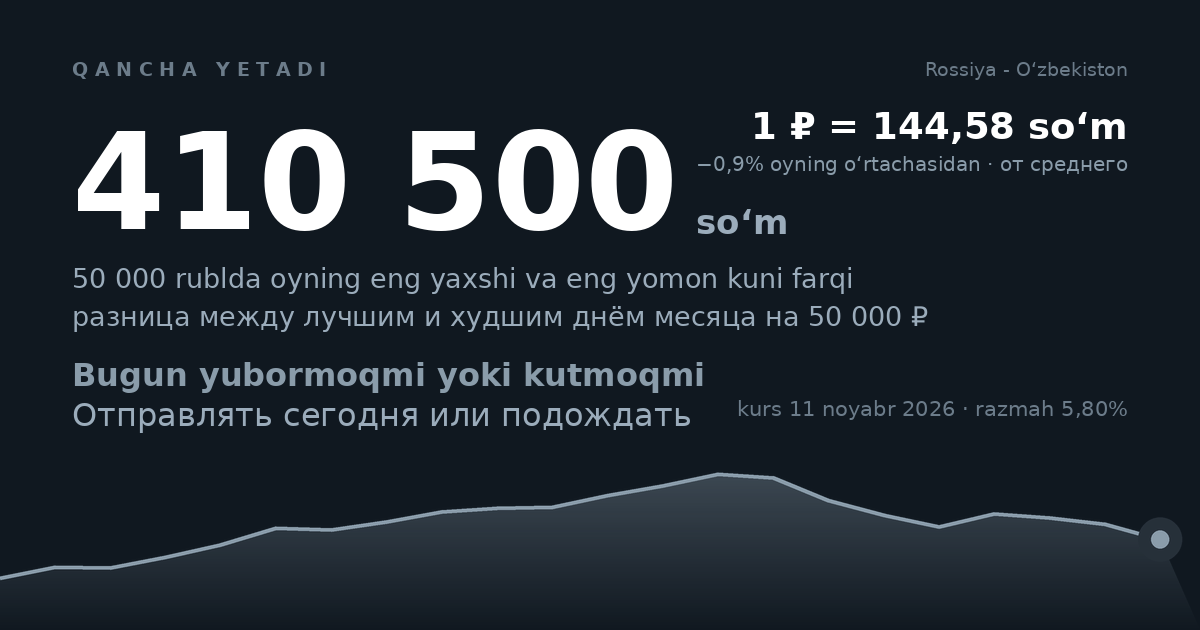
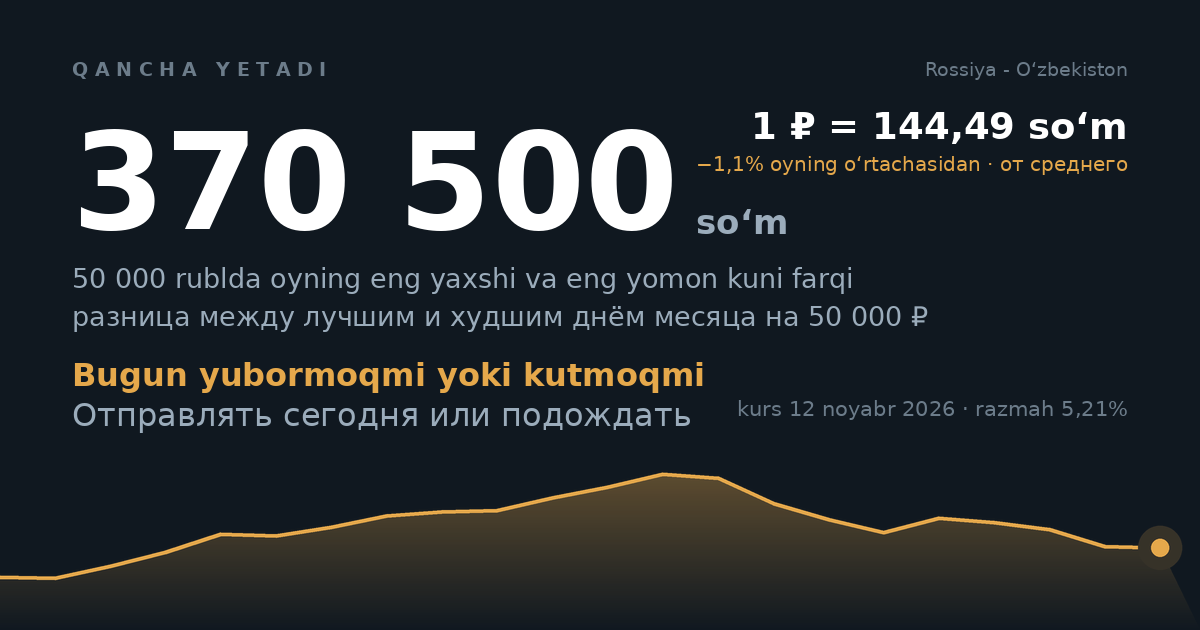
data: курс ЦБ 144.49, пересборка по расписанию [skip render]

diff --git a/kurs.html b/kurs.html
@@ -34,7 +34,7 @@
 <meta property="og:description" content="Отправлять сегодня или подождать. Курс ЦБ Узбекистана, курс переводов и разница в сумах на вашей сумме.">
 <meta property="og:type" content="website">
 <meta property="og:url" content="https://m1llerzz.github.io/KURS-/kurs.html">
-<meta property="og:image" content="https://m1llerzz.github.io/KURS-/oblozhka.png?v=20261111">
+<meta property="og:image" content="https://m1llerzz.github.io/KURS-/oblozhka.png?v=20261112">
 <meta property="og:image:width" content="1200">
 <meta property="og:image:height" content="630">
 <meta name="twitter:card" content="summary_large_image">
@@ -119,9 +119,9 @@
 </p>
 
 <div class="kurs">
-  <div class="big"><span data-zapas="kurs">144,58</span> сум за 1 ₽</div>
+  <div class="big"><span data-zapas="kurs">144,49</span> сум за 1 ₽</div>
   <div class="podpis">
-    Курс ЦБ Узбекистана на <span data-zapas="data_ru">11 ноября 2026</span>.
+    Курс ЦБ Узбекистана на <span data-zapas="data_ru">12 ноября 2026</span>.
     <span id="kurs-verdikt">Заметно ниже среднего за месяц.</span>
   </div>
 </div>
@@ -149,7 +149,7 @@
        публикацию, и круглое «тридцать» рядом с настоящими датами читается
        как нестыковка. Даты подставляет obnovit_zapas.py. -->
   Это главное, что стоит знать про переводы в Узбекистан, и об этом молчат
-  все. Замер по курсам ЦБ <span data-zapas="period_ru">с 13 октября по 11 ноября 2026</span>, на переводе 50 000 ₽:
+  все. Замер по курсам ЦБ <span data-zapas="period_ru">с 14 октября по 12 ноября 2026</span>, на переводе 50 000 ₽:
 </p>
 
 <div class="obertka">
@@ -159,11 +159,11 @@
   </thead>
   <tbody>
     <tr><td>День отправки</td>
-        <td class="num"><span data-zapas="razmah_percent">5,80</span>%</td>
-        <td class="num"><span data-zapas="razmah_sum">410 500</span></td></tr>
+        <td class="num"><span data-zapas="razmah_percent">5,21</span>%</td>
+        <td class="num"><span data-zapas="razmah_sum">370 500</span></td></tr>
     <tr><td>Сервис перевода</td>
-        <td class="num"><span data-zapas="nacenka_percent">3,17</span>%</td>
-        <td class="num"><span data-zapas="nacenka_sum">229 000</span></td></tr>
+        <td class="num"><span data-zapas="nacenka_percent">3,11</span>%</td>
+        <td class="num"><span data-zapas="nacenka_sum">224 500</span></td></tr>
     <tr><td>Банк получателя</td><td class="num">0,84%</td><td class="num">55 000</td></tr>
   </tbody>
 </table>
@@ -171,9 +171,9 @@
 
 <p>
   За этот месяц курс рубля прошёл путь от <span data-zapas="kurs_max">149,74</span>
-  до <span data-zapas="kurs_min">141,53</span> сума. Человек, отправивший в
+  до <span data-zapas="kurs_min">142,33</span> сума. Человек, отправивший в
   худший день месяца вместо лучшего, недосчитался
-  <span data-zapas="razmah_sum">410 500</span> сум на переводе 50 000 ₽.
+  <span data-zapas="razmah_sum">370 500</span> сум на переводе 50 000 ₽.
   Комиссия рядом с этим — мелочь.
 </p>
 
@@ -188,11 +188,11 @@
 <p>
   Официальный курс ЦБ — это не тот курс, по которому идёт перевод. Сервисы
   считают по своему, и разница нигде не написана отдельной строкой.
-  На <span data-zapas="data_ru">11 ноября 2026</span> года: официальный
-  <span data-zapas="kurs">144,58</span>, курс переводов
+  На <span data-zapas="data_ru">12 ноября 2026</span> года: официальный
+  <span data-zapas="kurs">144,49</span>, курс переводов
   <span data-zapas="kurs_servisa">140,00</span>. Разница
-  <span data-zapas="nacenka_percent">3,17</span>% — это
-  <span data-zapas="nacenka_sum">229 000</span> сум на переводе 50 000 ₽.
+  <span data-zapas="nacenka_percent">3,11</span>% — это
+  <span data-zapas="nacenka_sum">224 500</span> сум на переводе 50 000 ₽.
 </p>
 
 <p>
@@ -218,8 +218,8 @@
 
 <p class="vopros">Какой сегодня курс рубля к суму?</p>
 <p class="otvet">
-  На <span data-zapas="data_ru">11 ноября 2026</span> официальный курс
-  ЦБ Узбекистана — <span data-zapas="kurs">144,58</span> сума за
+  На <span data-zapas="data_ru">12 ноября 2026</span> официальный курс
+  ЦБ Узбекистана — <span data-zapas="kurs">144,49</span> сума за
   1 рубль. Перевод идёт по курсу около
   <span data-zapas="kurs_servisa">140,00</span> сума за рубль.
 </p>
@@ -238,7 +238,7 @@
   В коридоре работают шестеро, курс открыто публикуют двое — сравнить
   стоит оба. Отдельно от выбора сервиса стоит день отправки: за месяц
   курс ЦБ менялся на
-  <span data-zapas="razmah_percent">5,80</span>%.
+  <span data-zapas="razmah_percent">5,21</span>%.
 </p>
 
 <p class="vopros">Стоит ли подождать с переводом?</p>
@@ -268,9 +268,9 @@
 </p>
 
 <div class="kurs">
-  <div class="big"><span data-zapas="kurs">144,58</span> soʻm — 1 ₽</div>
+  <div class="big"><span data-zapas="kurs">144,49</span> soʻm — 1 ₽</div>
   <div class="podpis">
-    Markaziy bank kursi, <span data-zapas="data_uz">11 noyabr 2026</span>.
+    Markaziy bank kursi, <span data-zapas="data_uz">12 noyabr 2026</span>.
   </div>
 </div>
 
@@ -283,19 +283,19 @@
 <h3>Eng koʻp pulni yuborish KUNI hal qiladi</h3>
 
 <p>
-  Oʻlchov (<span data-zapas="period_uz">13 oktabr — 11 noyabr 2026</span>), 50 000 rubl uchun: yuborish kuni —
-  <span data-zapas="razmah_percent">5,80</span>% yoki
-  <span data-zapas="razmah_sum">410 500</span> soʻm; servis tanlash —
-  <span data-zapas="nacenka_percent">3,17</span>% yoki
-  <span data-zapas="nacenka_sum">229 000</span> soʻm; qabul qiluvchi
+  Oʻlchov (<span data-zapas="period_uz">14 oktabr — 12 noyabr 2026</span>), 50 000 rubl uchun: yuborish kuni —
+  <span data-zapas="razmah_percent">5,21</span>% yoki
+  <span data-zapas="razmah_sum">370 500</span> soʻm; servis tanlash —
+  <span data-zapas="nacenka_percent">3,11</span>% yoki
+  <span data-zapas="nacenka_sum">224 500</span> soʻm; qabul qiluvchi
   bank — 0,84%.
 </p>
 
 <p>
   Bir oyda rubl kursi <span data-zapas="kurs_max">149,74</span> dan
-  <span data-zapas="kurs_min">141,53</span> gacha tushdi. Eng yomon kunda
+  <span data-zapas="kurs_min">142,33</span> gacha tushdi. Eng yomon kunda
   yuborgan odam eng yaxshi kunga nisbatan
-  <span data-zapas="razmah_sum">410 500</span> soʻm kam oldi.
+  <span data-zapas="razmah_sum">370 500</span> soʻm kam oldi.
   Komissiya bunga nisbatan mayda gap.
 </p>
 
@@ -303,11 +303,11 @@
 
 <p>
   Rasmiy kurs — bu oʻtkazma kursi emas.
-  <span data-zapas="data_uz">11 noyabr 2026</span>: rasmiy
-  <span data-zapas="kurs">144,58</span>, oʻtkazma
+  <span data-zapas="data_uz">12 noyabr 2026</span>: rasmiy
+  <span data-zapas="kurs">144,49</span>, oʻtkazma
   <span data-zapas="kurs_servisa">140,00</span>. Farqi
-  <span data-zapas="nacenka_percent">3,17</span>% — 50 000 rublda
-  <span data-zapas="nacenka_sum">229 000</span> soʻm. Bu komissiya
+  <span data-zapas="nacenka_percent">3,11</span>% — 50 000 rublda
+  <span data-zapas="nacenka_sum">224 500</span> soʻm. Bu komissiya
   emas, bu kurs, va u hech qayerda alohida yozilmagan.
 </p>
 

diff --git a/data.js b/data.js
@@ -58,14 +58,14 @@ window.SERVICES = [
     ],
     "fee_fixed": 0,
     "fee_percent": 0,
-    "rate_rub_uzs": 139.0,
+    "rate_rub_uzs": 138.0,
     "limit_per_operation": 100000,
     "delivery_minutes": 60,
     "incoming_fee": 0,
-    "checked_at": "2026-11-11T09:56:49+00:00",
+    "checked_at": "2026-11-11T21:38:09+00:00",
     "verified_by_receipt": false,
     "fee_unknown": false,
-    "nacenka_percent": 3.86,
+    "nacenka_percent": 4.49,
     "url": "https://yubor.ru/",
     "limit_min": 9000,
     "istochnik_uslovij": "yubor.ru, 16.08.2026"
@@ -83,10 +83,10 @@ window.SERVICES = [
     "limit_per_operation": 200000,
     "delivery_minutes": 60,
     "incoming_fee": 0,
-    "checked_at": "2026-11-11T09:56:49+00:00",
+    "checked_at": "2026-11-11T21:38:09+00:00",
     "verified_by_receipt": false,
     "fee_unknown": false,
-    "nacenka_percent": 3.17,
+    "nacenka_percent": 3.11,
     "url": "https://avosend.com/",
     "limit_v_sutki": 380000,
     "limit_v_mesyac": 1500000,
@@ -122,7 +122,7 @@ window.KARTY = [];
  * Флаг zapas заставляет приложение честно предупредить: без свежего
  * курса весь расчёт становится ориентировочным.
  */
-window.KURSY_ZAPAS = {"usd_uzs": 11974.02, "rub_uzs": 144.58, "date": "2026-11-11", "zapas": true};
+window.KURSY_ZAPAS = {"usd_uzs": 11964.27, "rub_uzs": 144.49, "date": "2026-11-12", "zapas": true};
 
 /**
  * Запасная история курса рубля за 30 дней (курсы ЦБ, замер 15.08.2026).
@@ -130,15 +130,15 @@ window.KURSY_ZAPAS = {"usd_uzs": 11974.02, "rub_uzs": 144.58, "date": "2026-11-1
  * главная ценность приложения, и терять его при сбое сети нельзя.
  */
 window.HISTORY_ZAPAS = [
-  { date: '2026-10-13', rub_uzs: 141.53 }, { date: '2026-10-14', rub_uzs: 142.39 },
-  { date: '2026-10-15', rub_uzs: 142.33 }, { date: '2026-10-16', rub_uzs: 143.17 },
-  { date: '2026-10-17', rub_uzs: 144.16 }, { date: '2026-10-20', rub_uzs: 145.46 },
-  { date: '2026-10-21', rub_uzs: 145.33 }, { date: '2026-10-22', rub_uzs: 145.96 },
-  { date: '2026-10-23', rub_uzs: 146.75 }, { date: '2026-10-24', rub_uzs: 147.05 },
-  { date: '2026-10-27', rub_uzs: 147.13 }, { date: '2026-10-28', rub_uzs: 148.04 },
-  { date: '2026-10-29', rub_uzs: 148.8 }, { date: '2026-10-30', rub_uzs: 149.74 },
-  { date: '2026-10-31', rub_uzs: 149.44 }, { date: '2026-11-03', rub_uzs: 147.65 },
-  { date: '2026-11-04', rub_uzs: 146.49 }, { date: '2026-11-05', rub_uzs: 145.58 },
-  { date: '2026-11-06', rub_uzs: 146.59 }, { date: '2026-11-07', rub_uzs: 146.29 },
-  { date: '2026-11-10', rub_uzs: 145.79 }, { date: '2026-11-11', rub_uzs: 144.58 },
+  { date: '2026-10-14', rub_uzs: 142.39 }, { date: '2026-10-15', rub_uzs: 142.33 },
+  { date: '2026-10-16', rub_uzs: 143.17 }, { date: '2026-10-17', rub_uzs: 144.16 },
+  { date: '2026-10-20', rub_uzs: 145.46 }, { date: '2026-10-21', rub_uzs: 145.33 },
+  { date: '2026-10-22', rub_uzs: 145.96 }, { date: '2026-10-23', rub_uzs: 146.75 },
+  { date: '2026-10-24', rub_uzs: 147.05 }, { date: '2026-10-27', rub_uzs: 147.13 },
+  { date: '2026-10-28', rub_uzs: 148.04 }, { date: '2026-10-29', rub_uzs: 148.8 },
+  { date: '2026-10-30', rub_uzs: 149.74 }, { date: '2026-10-31', rub_uzs: 149.44 },
+  { date: '2026-11-03', rub_uzs: 147.65 }, { date: '2026-11-04', rub_uzs: 146.49 },
+  { date: '2026-11-05', rub_uzs: 145.58 }, { date: '2026-11-06', rub_uzs: 146.59 },
+  { date: '2026-11-07', rub_uzs: 146.29 }, { date: '2026-11-10', rub_uzs: 145.79 },
+  { date: '2026-11-11', rub_uzs: 144.58 }, { date: '2026-11-12', rub_uzs: 144.49 },
 ];

diff --git a/index.html b/index.html
@@ -17,7 +17,7 @@
      единственный бесплатный источник роста, который у нас есть. Карточка
      без картинки выглядит в чате бледной строкой, и её пролистывают.
      Число на обложке живое: пересобирается `bot/sobrat_oblozhku.py`. -->
-<meta property="og:image" content="https://m1llerzz.github.io/KURS-/oblozhka.png?v=20261111">
+<meta property="og:image" content="https://m1llerzz.github.io/KURS-/oblozhka.png?v=20261112">
 <meta property="og:image:width" content="1200">
 <meta property="og:image:height" content="630">
 <meta name="twitter:card" content="summary_large_image">
@@ -855,9 +855,9 @@
      ?v= обязателен: Telegram держит файлы мини-аппа в кеше по нескольку
      часов, и без смены адреса человек продолжает видеть старую версию.
      Правило: поменял js — увеличил число здесь, иначе правка не доедет. -->
-<script src="i18n.js?v=180"></script>
-<script src="data.js?v=180"></script>
-<script src="calc.js?v=180"></script>
-<script src="app.js?v=180"></script>
+<script src="i18n.js?v=181"></script>
+<script src="data.js?v=181"></script>
+<script src="calc.js?v=181"></script>
+<script src="app.js?v=181"></script>
 </body>
 </html>
